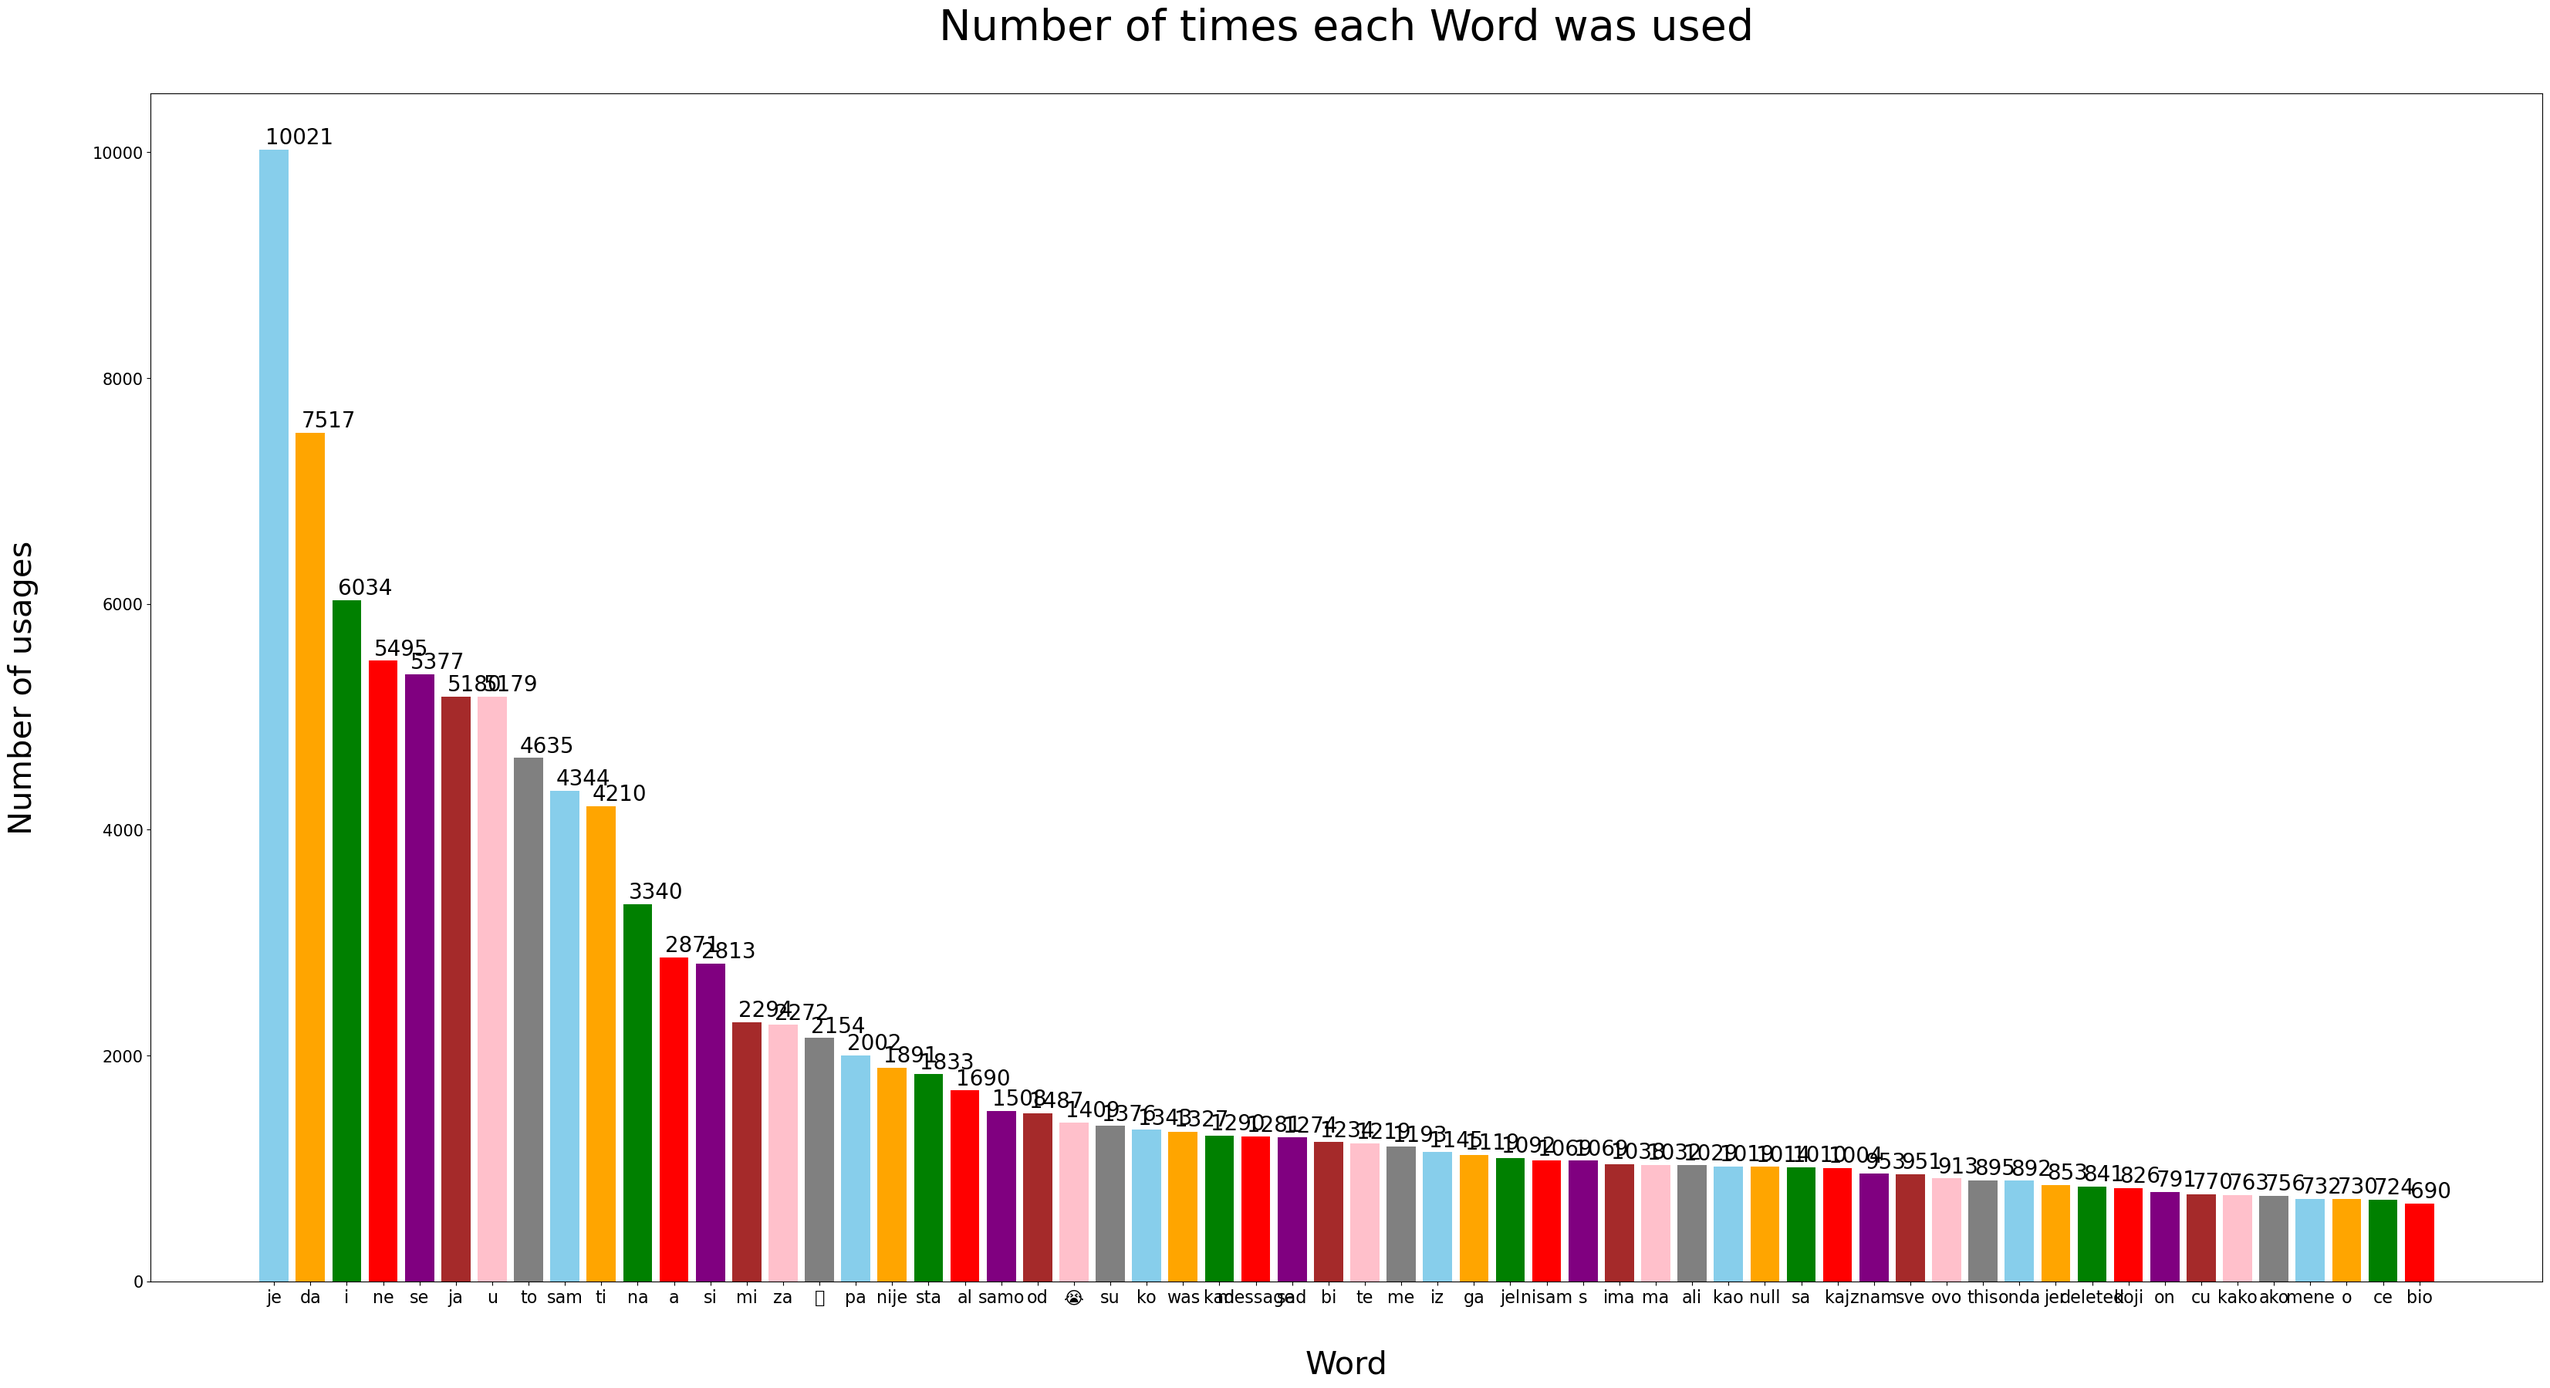
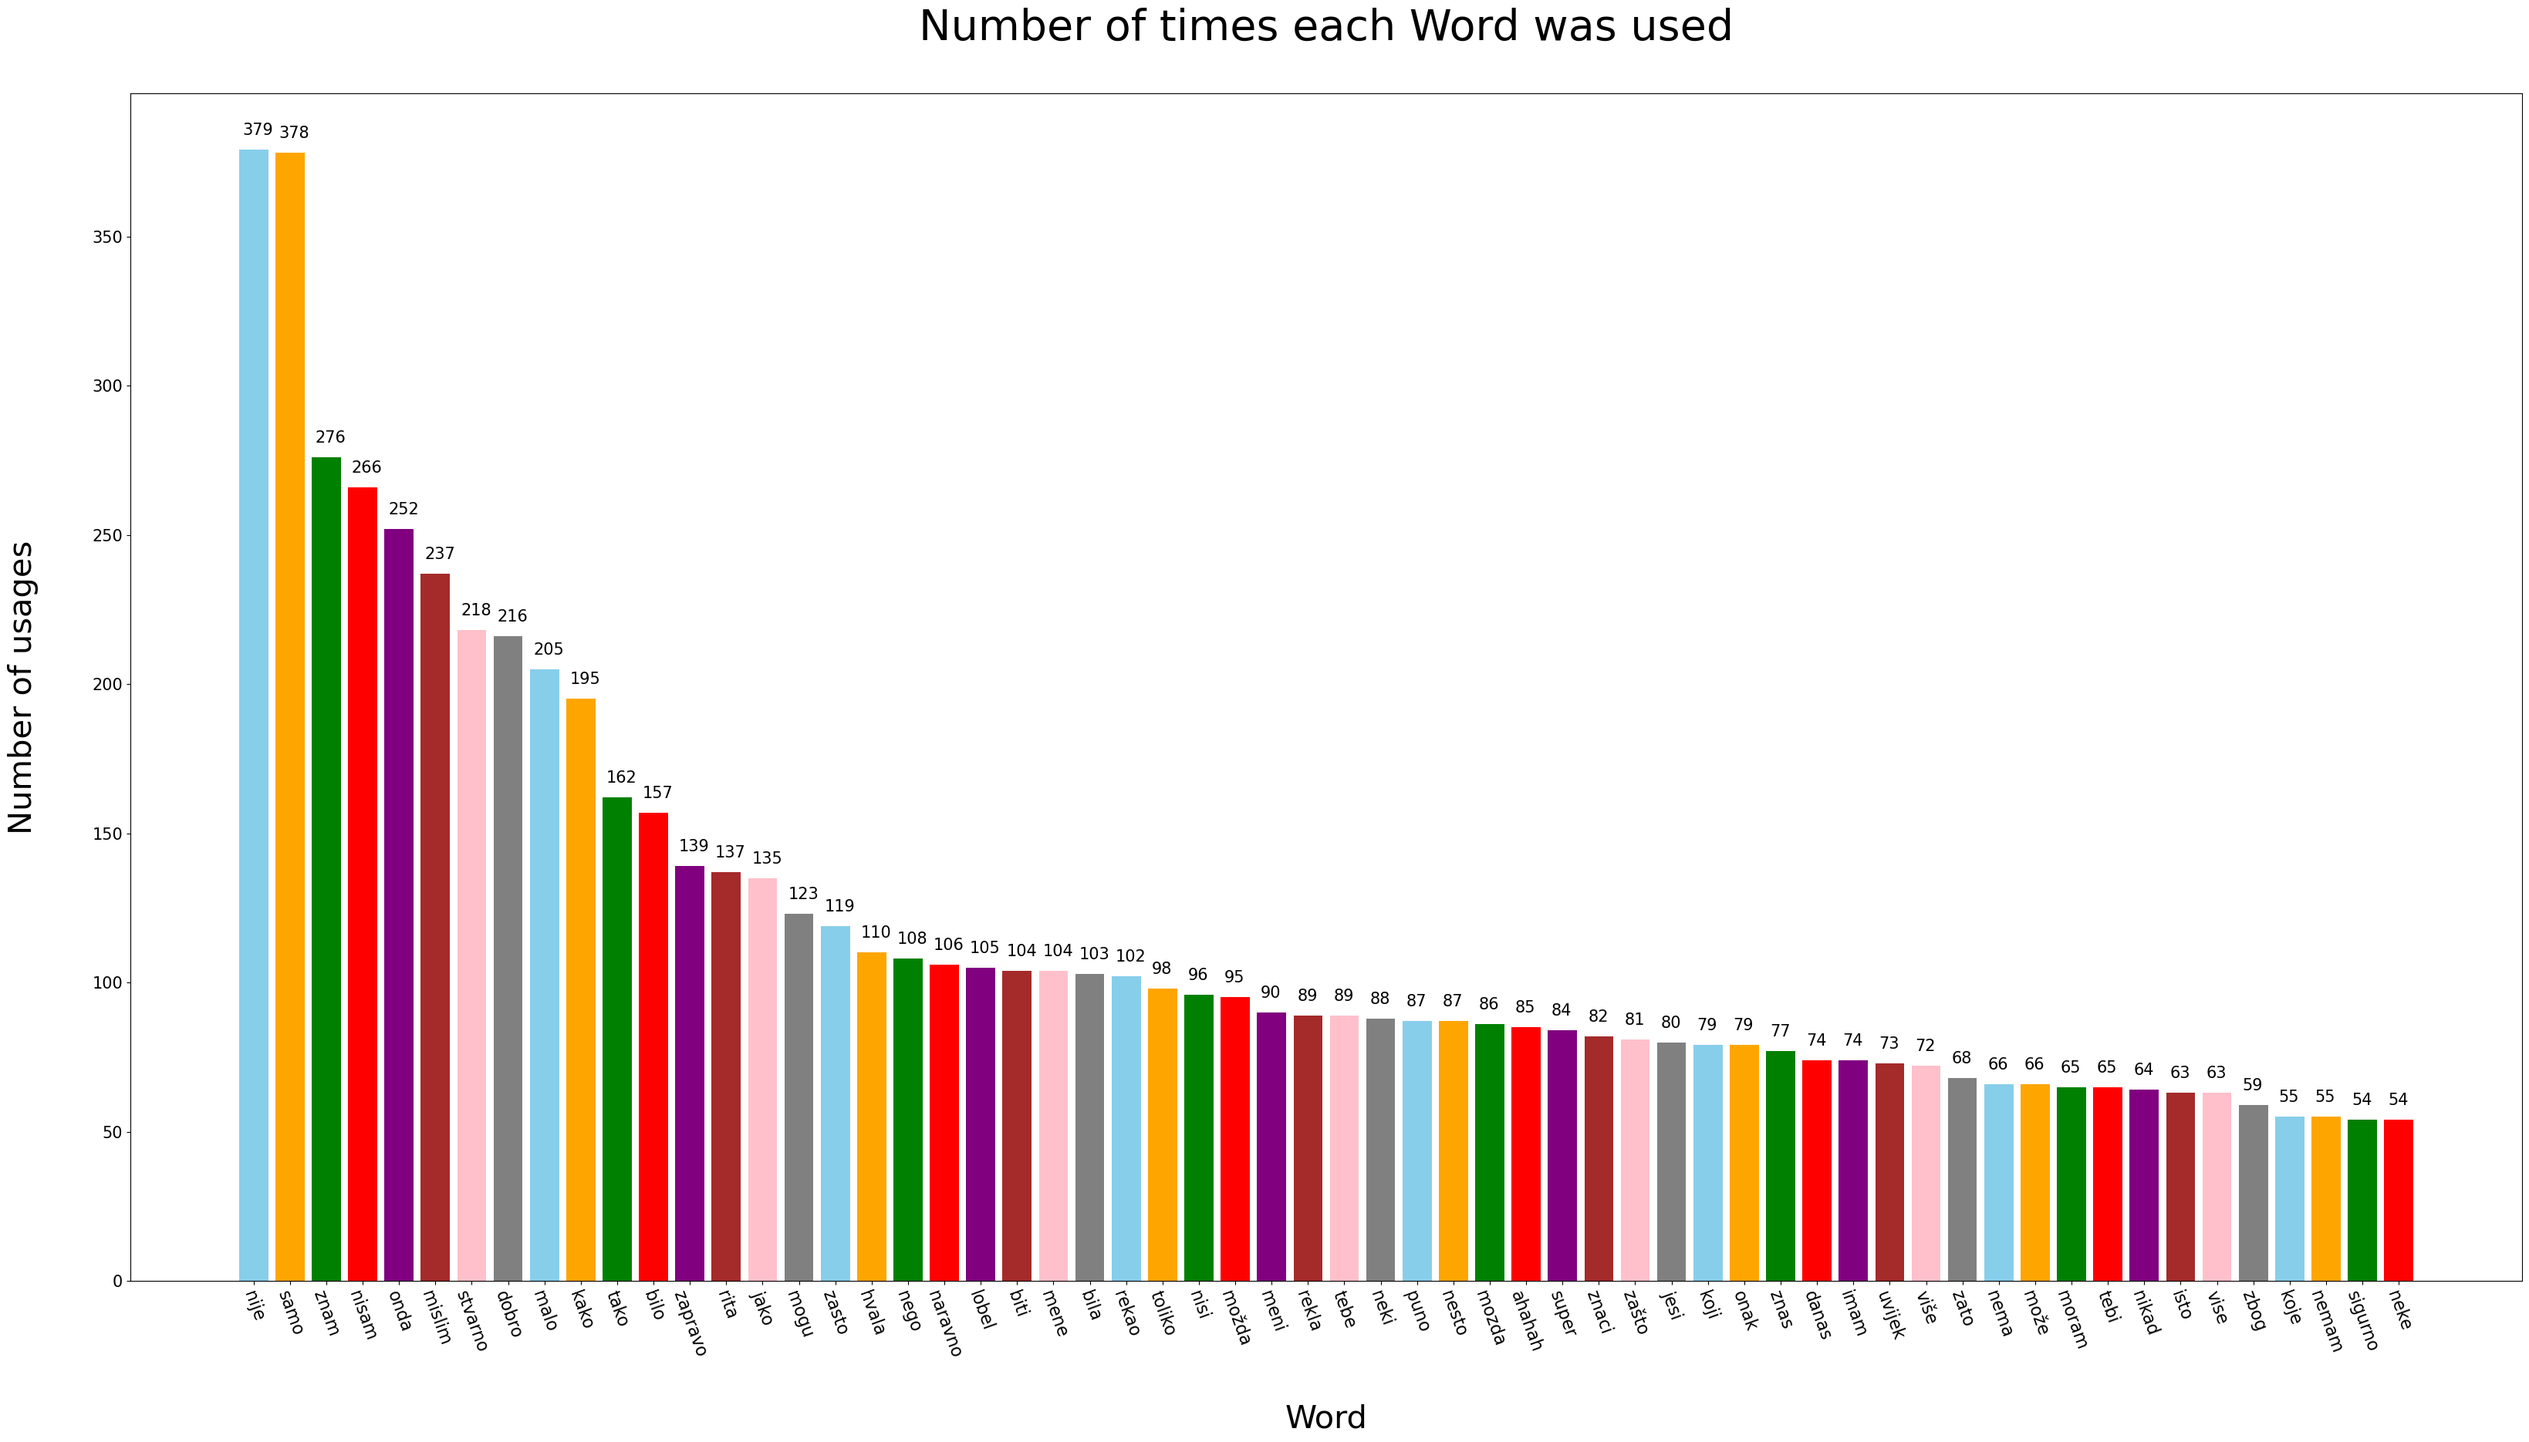
Added multiple new functions in general data for analyzing total characters and average message length for each person.
Simplified changing visual parameters (label offset, rotation of ticks etc.) in multiple files.

diff --git a/analysis_functions/word_functions.py b/analysis_functions/word_functions.py
@@ -1,13 +1,21 @@
 import matplotlib.pyplot as plt
 import pandas as pd
+import string
 
-text_x_offset = 0.24
-text_y_offset = 50
-rotation = 0
+text_x_offset = 0.3
+text_y_offset = 5
+rotation = -70
+word_count_font_size = 15
+min_length = 4
+number_of_words = 60
 
 def count_common_words(messages):
     # Assuming you have a DataFrame named 'messages'
     all_messages = ' '.join(messages['contents'].astype(str).str.lower())
+    
+    # Remove punctuation from the text
+    all_messages = all_messages.translate(str.maketrans('', '', string.punctuation))
+    all_messages = all_messages.replace('\n', ' ').replace(',', ' ').lower()
 
     # Split the text into words
     words = all_messages.split()
@@ -17,17 +25,20 @@ def count_common_words(messages):
     word_counts.columns = ['word', 'count']
 
     # Remove unwanted words
-    unwanted_words = ['<media', 'omitted>']
+    unwanted_words = ['media', 'omitted', 'edited', 'this', 'message']
     word_counts = word_counts[~word_counts['word'].isin(unwanted_words)]
 
     # Set 'word' as the index
     word_counts.set_index('word', inplace=True)
+    
+    # Remove words shorter than 4 letters
+    word_counts = word_counts[word_counts.index.str.len() >= min_length]
 
     # Reset index to keep 'word' as a column and not index
     word_counts.reset_index()
 
     # Display the top 20 most common words
-    top_words = word_counts.head(60)
+    top_words = word_counts.head(number_of_words)
     
     return top_words
 
@@ -48,7 +59,7 @@ def plot_common_words(top_words):
     # Add value annotations on top of the bars
     for bar in bars:
         plt.text(bar.get_x() + bar.get_width() / 2 - text_x_offset, bar.get_height() + text_y_offset, str(int(bar.get_height())),
-                fontsize=20, color='black')
+                fontsize=word_count_font_size, color='black')
         
     plt.savefig('./RESULTS/word_distribution.png', bbox_inches='tight')
 

diff --git a/analysis_functions/media_functions.py b/analysis_functions/media_functions.py
@@ -32,7 +32,7 @@ def user_count_media(messages):
     
     return user_media_df
 
-def plot_user_media_count(user_media_df):
+def bar_plot_user_media_count(user_media_df):
     # Manually specify colors for each user
     colors = ['skyblue', 'orange', 'green', 'red', 'purple', 'brown', 'pink', 'gray']
 
@@ -53,7 +53,32 @@ def plot_user_media_count(user_media_df):
         
     plt.savefig('./RESULTS/user_media_count.png', bbox_inches='tight')
 
-    # plt.show()
+def pie_plot_user_media_count(user_media_count_df):
+    # Manually specify colors for each user
+    colors = ['skyblue', 'orange', 'green', 'red', 'purple', 'brown', 'pink', 'gray']
+
+    # Pie chart
+    plt.figure(figsize=(10, 10))  # Adjust the figure size for the pie chart
+
+    # Plot the pie chart
+    plt.pie(user_media_count_df['message_count'], 
+            labels=user_media_count_df['sender'], 
+            colors=colors[:len(user_media_count_df)], 
+            autopct='%1.1f%%',  # Display percentage on the pie chart
+            startangle=90,  # Start the pie chart from a fixed angle
+            wedgeprops={'edgecolor': 'black', 'linewidth': 1.5})  # Add edge color to wedges for better visual separation
+
+    # Title of the pie chart
+    plt.title('Number of messages with media attachemnts per person', fontsize=20)
+
+    # Save the plot as an image file
+    plt.savefig('./RESULTS/user_media_count.png', bbox_inches='tight')
     
 def process_user_media_count(media_dataframe):
-    plot_user_media_count(user_count_media(media_dataframe))
+    
+    user_media_count_df = user_count_media(media_dataframe)
+    
+    if len(user_media_count_df) < 10:
+        pie_plot_user_media_count(user_media_count_df)
+    else:
+        bar_plot_user_media_count(user_media_count_df)

diff --git a/analysis_functions/load_functions.py b/analysis_functions/load_functions.py
@@ -59,7 +59,7 @@ def remove_media(message_dataframe):
     return message_dataframe
 
 def write_general_data(message_dataframe):
-    with open('./RESULTS/general_data.txt', 'w') as f:
+    with open('./RESULTS/general_data.txt', 'w', encoding='utf-8') as f:
         f.write('Number of messages: ' + str(len(message_dataframe)) + '\n')
         f.write('Number of senders: ' + str(len(message_dataframe['sender'].unique())) + '\n')
         f.write('Number of words: ' + str(message_dataframe['contents'].apply(lambda x: len(x.split())).sum()) + '\n')
@@ -67,4 +67,17 @@ def write_general_data(message_dataframe):
         f.write('Average message length: ' + str(message_dataframe['contents'].apply(lambda x: len(x)).mean()) + '\n')
         f.write('Average words per message: ' + str(message_dataframe['contents'].apply(lambda x: len(x.split())).mean()) + '\n')
         f.write('Average messages per sender: ' + str(message_dataframe['sender'].value_counts().mean()) + '\n')
+            
+        # Calculate and write average message length for each sender
+        sender_avg_lengths = message_dataframe.groupby('sender')['contents'].apply(lambda x: x.str.len().mean())
+        f.write('\nAverage message length per sender:\n')
+        for sender, avg_length in sender_avg_lengths.items():
+            f.write(f'{sender}: {avg_length:.2f} characters\n')
+            
+        # Calculate and write total characters sent by each sender
+        sender_total_chars = message_dataframe.groupby('sender')['contents'].apply(lambda x: x.str.len().sum())
+        f.write('\nTotal characters sent per sender:\n')
+        for sender, total_chars in sender_total_chars.items():
+            f.write(f'{sender}: {total_chars} characters\n')
+            
         f.close()

diff --git a/analysis_functions/user_functions.py b/analysis_functions/user_functions.py
@@ -19,8 +19,7 @@ def count_user_messages(message_dataframe):
     
     return user_message_count_df
 
-    
-def plot_user_message_count(user_message_count_df):
+def bar_plot_user_message_count(user_message_count_df):
     # Manually specify colors for each user
     colors = ['skyblue', 'orange', 'green', 'red', 'purple', 'brown', 'pink', 'gray']
 
@@ -44,6 +43,31 @@ def plot_user_message_count(user_message_count_df):
     
     # plt.show()
     
+def pie_plot_user_message_count(user_message_count_df):
+    # Manually specify colors for each user
+    colors = ['skyblue', 'orange', 'green', 'red', 'purple', 'brown', 'pink', 'gray']
+
+    # Pie chart
+    plt.figure(figsize=(10, 10))  # Adjust the figure size for the pie chart
+
+    # Plot the pie chart
+    plt.pie(user_message_count_df['message_count'], 
+            labels=user_message_count_df['sender'], 
+            colors=colors[:len(user_message_count_df)], 
+            autopct='%1.1f%%',  # Display percentage on the pie chart
+            startangle=90,  # Start the pie chart from a fixed angle
+            wedgeprops={'edgecolor': 'black', 'linewidth': 1.5})  # Add edge color to wedges for better visual separation
+
+    # Title of the pie chart
+    plt.title('Number of messages per person', fontsize=20)
+
+    # Save the plot as an image file
+    plt.savefig('./RESULTS/user_count.png', bbox_inches='tight')
+    
 def process_user_message_count(message_dataframe):
     user_message_count_df = count_user_messages(message_dataframe)
-    plot_user_message_count(user_message_count_df)
+    
+    if len(user_message_count_df) > 10:
+        bar_plot_user_message_count(user_message_count_df)
+    else:
+        pie_plot_user_message_count(user_message_count_df)

diff --git a/analysis_functions/hour_functions.py b/analysis_functions/hour_functions.py
@@ -1,8 +1,8 @@
 import pandas as pd
 import matplotlib.pyplot as plt
 
-text_x_offset = 0.28
-text_y_offset = 50
+text_x_offset = 0.20
+text_y_offset = 5
 rotation = 0
 
 def count_hours(messages):
